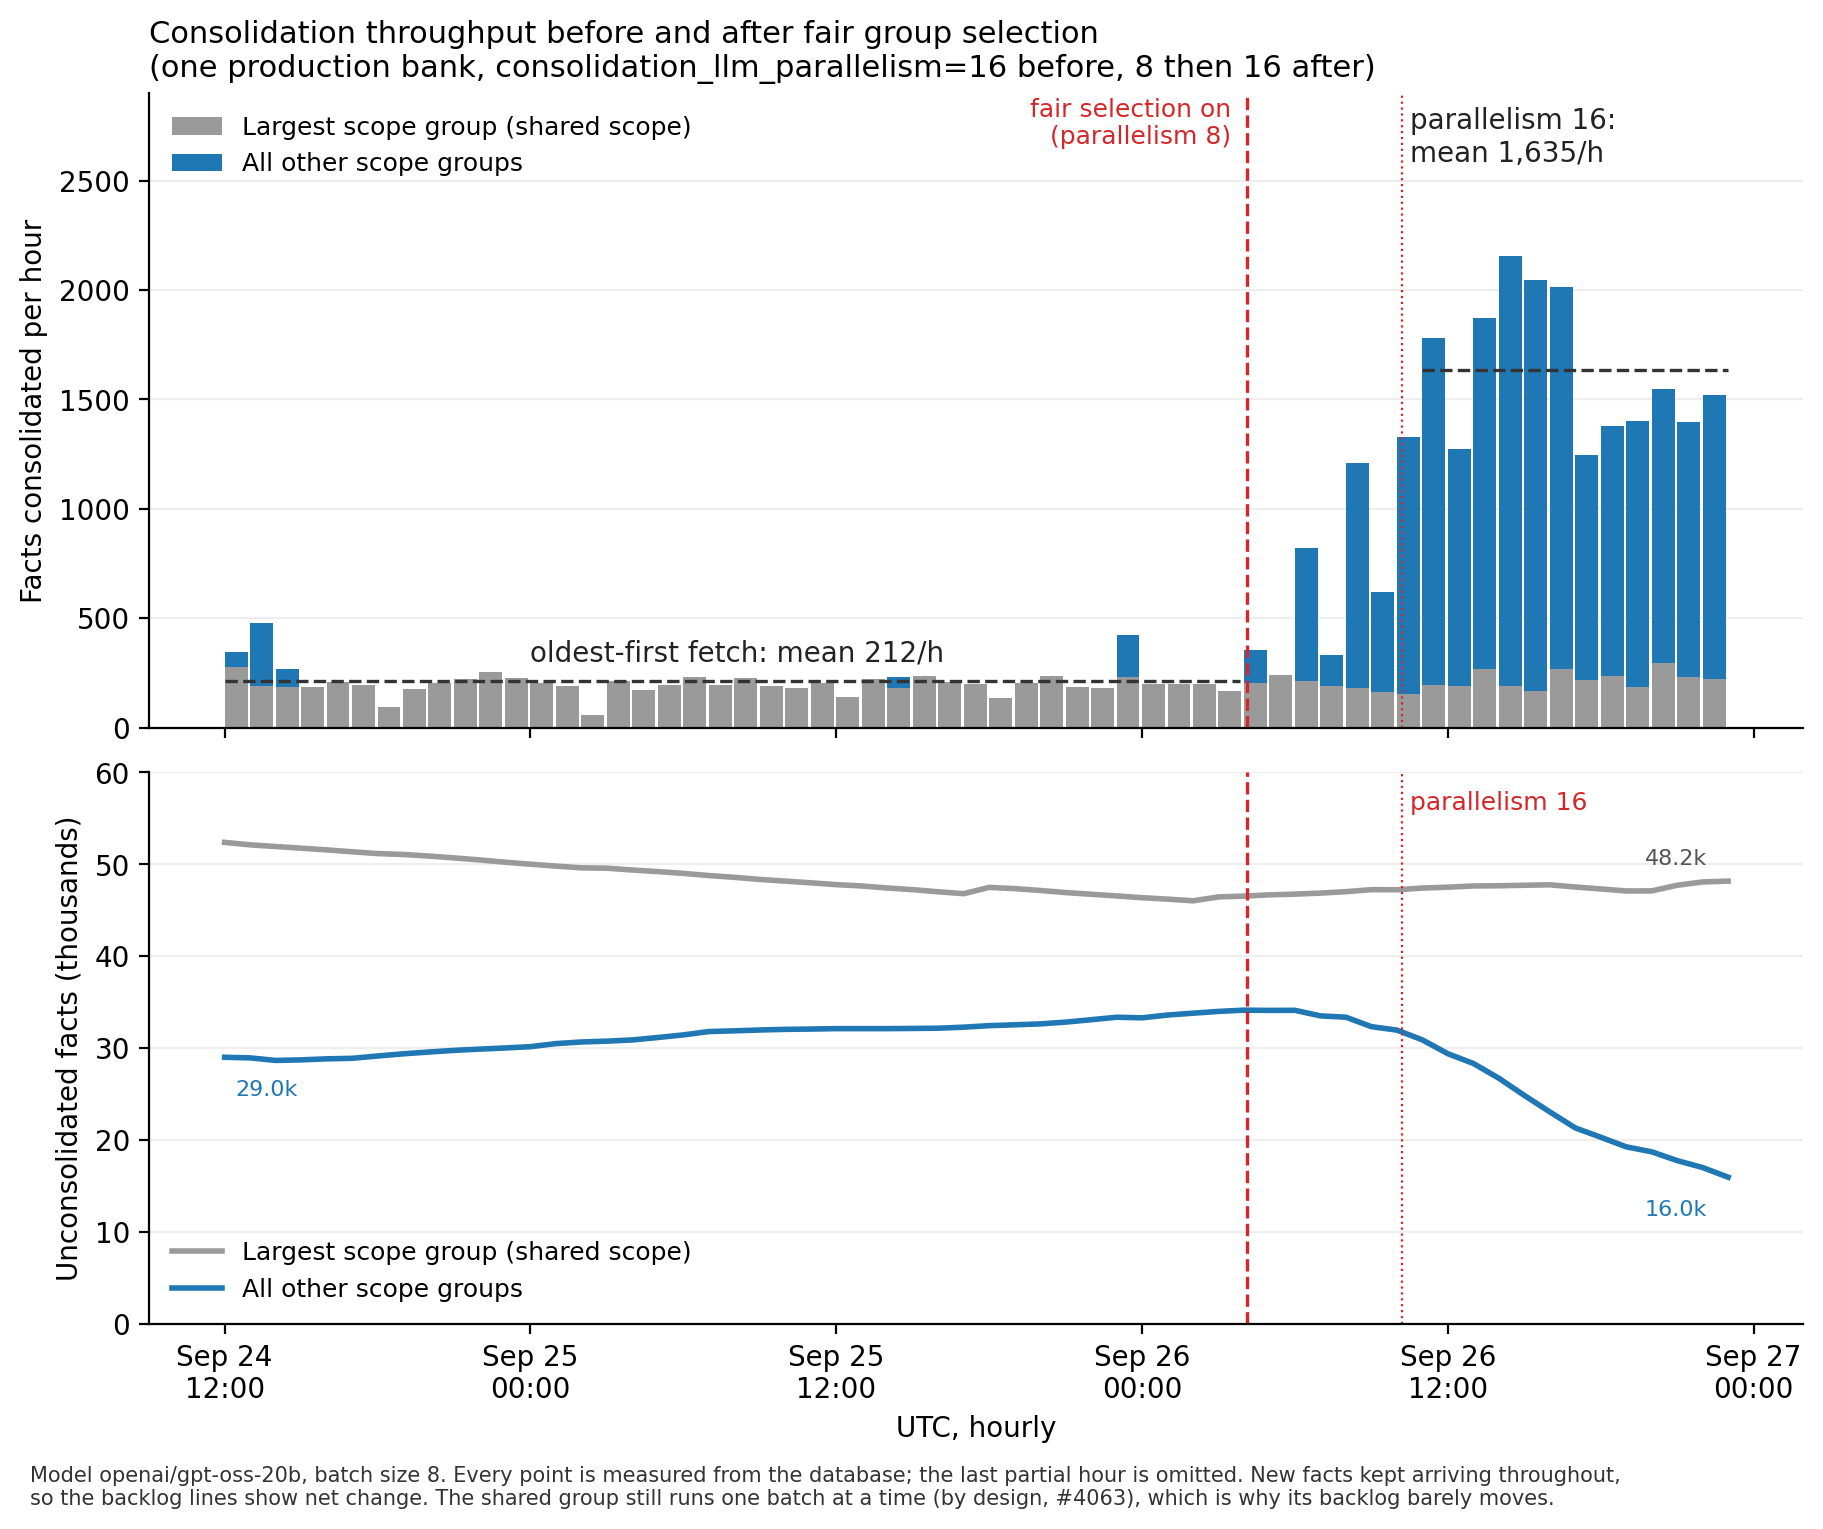
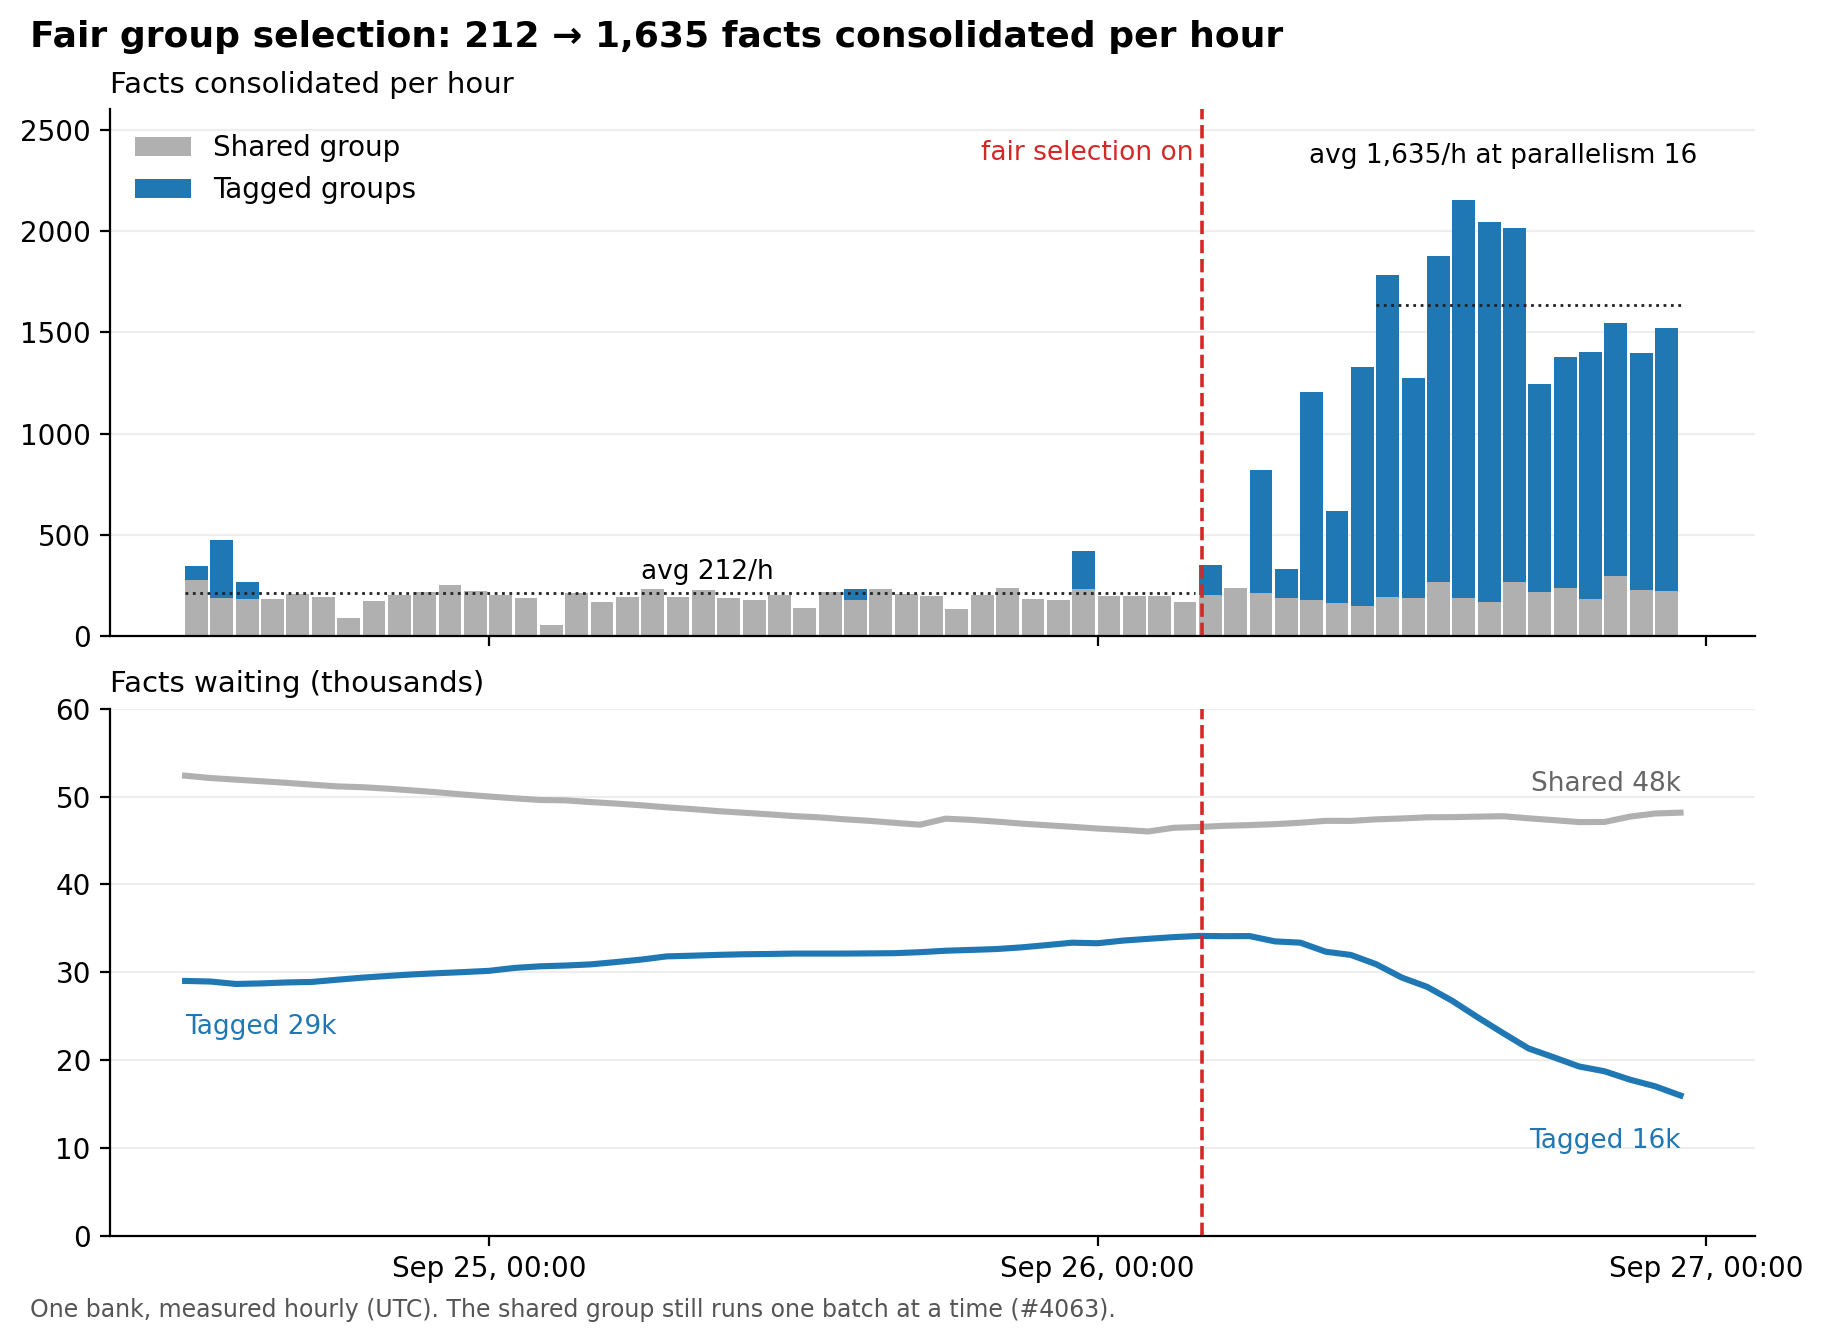
Simplify figure for vectorize-io/hindsight#4823

diff --git a/fair-group-selection-drain.py b/fair-group-selection-drain.py
@@ -1,8 +1,8 @@
-"""Figure for vectorize-io/hindsight#4823: consolidation throughput before/after fair group selection.
+"""Figure for vectorize-io/hindsight#4823: consolidation before/after fair group selection.
 
 Data: /Users/brianle/.hermes/cache/scratch/issue4823_data.json (hourly, UTC, read-only
-queries against memory_units for one bank). "Largest group" = facts whose consolidation
-scope is the shared/untagged scope; "other groups" = every other tag-set scope group.
+queries against memory_units for one bank). "Shared group" = facts in the shared/untagged
+scope; "Tagged groups" = every other tag-set scope group. All points are measured.
 """
 
 import json
@@ -13,89 +13,80 @@ import matplotlib.dates as mdates
 import matplotlib.pyplot as plt
 
 D = json.load(open("/Users/brianle/.hermes/cache/scratch/issue4823_data.json"))
-LAST_FULL = "2026-09-26 22"  # 23:00 is a partial hour at query time; excluded
+LAST_FULL = "2026-09-26 22"  # 23:00 was a partial hour at query time; excluded
 
 
 def ts(s):
     return datetime.strptime(s, "%Y-%m-%d %H")
 
 
-cons = [row for row in D["cons"] if row[0] <= LAST_FULL]
-back = [row for row in D["back"] if row[0] <= "2026-09-26 23"]
-
+cons = [r for r in D["cons"] if r[0] <= LAST_FULL]
+back = [r for r in D["back"] if r[0] <= "2026-09-26 23"]
 ct = [ts(r[0]) for r in cons]
-big = [int(r[1]) for r in cons]
-other = [int(r[2]) for r in cons]
+shared = [int(r[1]) for r in cons]
+tagged = [int(r[2]) for r in cons]
 bt = [ts(r[0]) for r in back]
-bbig = [int(r[1]) / 1000 for r in back]
-bother = [int(r[2]) / 1000 for r in back]
+b_shared = [int(r[1]) / 1000 for r in back]
+b_tagged = [int(r[2]) / 1000 for r in back]
 
 SWITCH = datetime(2026, 9, 26, 4, 7)
-P16 = datetime(2026, 9, 26, 10, 13)
-ACCENT = "#1f77b4"
-MUTED = "#9a9a9a"
+TAGGED = "#1f77b4"
+SHARED = "#b0b0b0"
 
-fig, (ax1, ax2) = plt.subplots(
-    2, 1, figsize=(9, 7.2), dpi=200, sharex=True, layout="constrained", height_ratios=[1.15, 1]
+
+def mean_rate(start, end):
+    v = [s + t for x, s, t in zip(ct, shared, tagged) if start <= x < end]
+    return sum(v) / len(v)
+
+
+before = mean_rate(datetime(2026, 9, 24, 12), datetime(2026, 9, 26, 4))
+after = mean_rate(datetime(2026, 9, 26, 11), datetime(2026, 9, 27))
+
+plt.rcParams.update({"font.size": 10})
+fig, (ax1, ax2) = plt.subplots(2, 1, figsize=(9, 6.4), dpi=200, sharex=True, layout="constrained")
+fig.suptitle(
+    f"Fair group selection: {before:,.0f} → {after:,.0f} facts consolidated per hour",
+    x=0.01,
+    ha="left",
+    fontsize=13,
+    fontweight="bold",
 )
 
 w = 1 / 24 * 0.9
-ax1.bar(ct, big, width=w, color=MUTED, label="Largest scope group (shared scope)", align="edge")
-ax1.bar(ct, other, width=w, bottom=big, color=ACCENT, label="All other scope groups", align="edge")
-ax1.set_ylabel("Facts consolidated per hour")
-ax1.set_title(
-    "Consolidation throughput before and after fair group selection\n"
-    "(one production bank, consolidation_llm_parallelism=16 before, 8 then 16 after)",
-    fontsize=11,
-    loc="left",
-)
-ax1.legend(loc="upper left", frameon=False, fontsize=9)
-ax1.set_ylim(0, 2900)
+ax1.bar(ct, shared, width=w, color=SHARED, label="Shared group", align="edge")
+ax1.bar(ct, tagged, width=w, bottom=shared, color=TAGGED, label="Tagged groups", align="edge")
+ax1.set_title("Facts consolidated per hour", loc="left", fontsize=10.5)
+ax1.set_ylim(0, 2600)
+ax1.legend(loc="upper left", frameon=False)
 
-pre_n = sum(1 for t in ct if t < SWITCH)
-pre_avg = sum(b + o for t, b, o in zip(ct, big, other) if t < datetime(2026, 9, 26, 4)) / max(
-    1, sum(1 for t in ct if t < datetime(2026, 9, 26, 4))
-)
-post = [(b + o) for t, b, o in zip(ct, big, other) if t >= datetime(2026, 9, 26, 11)]
-post_avg = sum(post) / len(post)
-pre_s, pre_e = datetime(2026, 9, 24, 12), datetime(2026, 9, 26, 3, 50)
-post_s, post_e = datetime(2026, 9, 26, 11), datetime(2026, 9, 26, 23)
-ax1.hlines(pre_avg, pre_s, pre_e, color="#333", lw=1.2, ls="--")
-ax1.hlines(post_avg, post_s, post_e, color="#333", lw=1.2, ls="--")
-ax1.text(datetime(2026, 9, 25, 0), pre_avg + 90, f"oldest-first fetch: mean {pre_avg:,.0f}/h", fontsize=10, color="#222")
-ax1.text(datetime(2026, 9, 26, 10, 30), 2560, f"parallelism 16:\nmean {post_avg:,.0f}/h", fontsize=10, color="#222", ha="left", va="bottom")
-
-ax2.plot(bt, bbig, color=MUTED, lw=2, label="Largest scope group (shared scope)")
-ax2.plot(bt, bother, color=ACCENT, lw=2, label="All other scope groups")
-ax2.set_ylabel("Unconsolidated facts (thousands)")
+ax2.plot(bt, b_shared, color=SHARED, lw=2.2)
+ax2.plot(bt, b_tagged, color=TAGGED, lw=2.2)
+ax2.set_title("Facts waiting (thousands)", loc="left", fontsize=10.5)
 ax2.set_ylim(0, 60)
-ax2.legend(loc="lower left", frameon=False, fontsize=9)
-ax2.annotate(f"{bother[0]:.1f}k", xy=(bt[0], bother[0]), xytext=(4, -14), textcoords="offset points", fontsize=8, color=ACCENT)
-ax2.annotate(f"{bother[-1]:.1f}k", xy=(bt[-1], bother[-1]), xytext=(-30, -14), textcoords="offset points", fontsize=8, color=ACCENT)
-ax2.annotate(f"{bbig[-1]:.1f}k", xy=(bt[-1], bbig[-1]), xytext=(-30, 6), textcoords="offset points", fontsize=8, color="#555")
+ax2.text(bt[-1], b_shared[-1] + 2.5, f"Shared {b_shared[-1]:.0f}k", color="#666", ha="right", fontsize=9.5)
+ax2.text(bt[-1], b_tagged[-1] - 6, f"Tagged {b_tagged[-1]:.0f}k", color=TAGGED, ha="right", fontsize=9.5)
+ax2.text(bt[0], b_tagged[0] - 6, f"Tagged {b_tagged[0]:.0f}k", color=TAGGED, ha="left", fontsize=9.5)
 
 for ax in (ax1, ax2):
-    ax.axvline(SWITCH, color="#d62728", lw=1.2, ls="--")
-    ax.axvline(P16, color="#d62728", lw=0.8, ls=":")
+    ax.axvline(SWITCH, color="#d62728", lw=1.3, ls="--")
     ax.spines[["top", "right"]].set_visible(False)
     ax.grid(axis="y", color="#eee", lw=0.8)
     ax.set_axisbelow(True)
+ax1.text(SWITCH, 2450, "fair selection on ", color="#d62728", va="top", ha="right", fontsize=9.5)
+for (s, e), m in (((datetime(2026, 9, 24, 12), datetime(2026, 9, 26, 3, 50)), before), ((datetime(2026, 9, 26, 11), datetime(2026, 9, 26, 23)), after)):
+    ax1.hlines(m, s, e, color="#222", lw=1, ls=":")
+ax1.text(datetime(2026, 9, 25, 6), before + 70, f"avg {before:,.0f}/h", fontsize=9.5)
+ax1.text(datetime(2026, 9, 26, 16), after + 700, f"avg {after:,.0f}/h at parallelism 16", fontsize=9.5, ha="center")
 
-ax1.text(SWITCH, 2880, "fair selection on  \n(parallelism 8)  ", color="#d62728", fontsize=9, va="top", ha="right")
-ax2.text(P16, 58, " parallelism 16", color="#d62728", fontsize=9, va="top", ha="left")
-
-ax2.xaxis.set_major_locator(mdates.HourLocator(byhour=[0, 12]))
-ax2.xaxis.set_major_formatter(mdates.DateFormatter("%b %d\n%H:%M"))
-ax2.set_xlabel("UTC, hourly")
+ax2.xaxis.set_major_locator(mdates.HourLocator(byhour=[0]))
+ax2.xaxis.set_major_formatter(mdates.DateFormatter("%b %d, 00:00"))
 
 fig.text(
     0.01,
-    -0.01,
-    "Model openai/gpt-oss-20b, batch size 8. Every point is measured from the database; the last partial hour is omitted. "
-    "New facts kept arriving throughout,\nso the backlog lines show net change. The shared group still runs one batch at a time "
-    "(by design, #4063), which is why its backlog barely moves.",
-    fontsize=7.5,
-    color="#333",
+    -0.005,
+    "One bank, measured hourly (UTC). The shared group still runs one batch at a time (#4063).",
+    fontsize=8.5,
+    color="#555",
     ha="left",
     va="top",
 )
